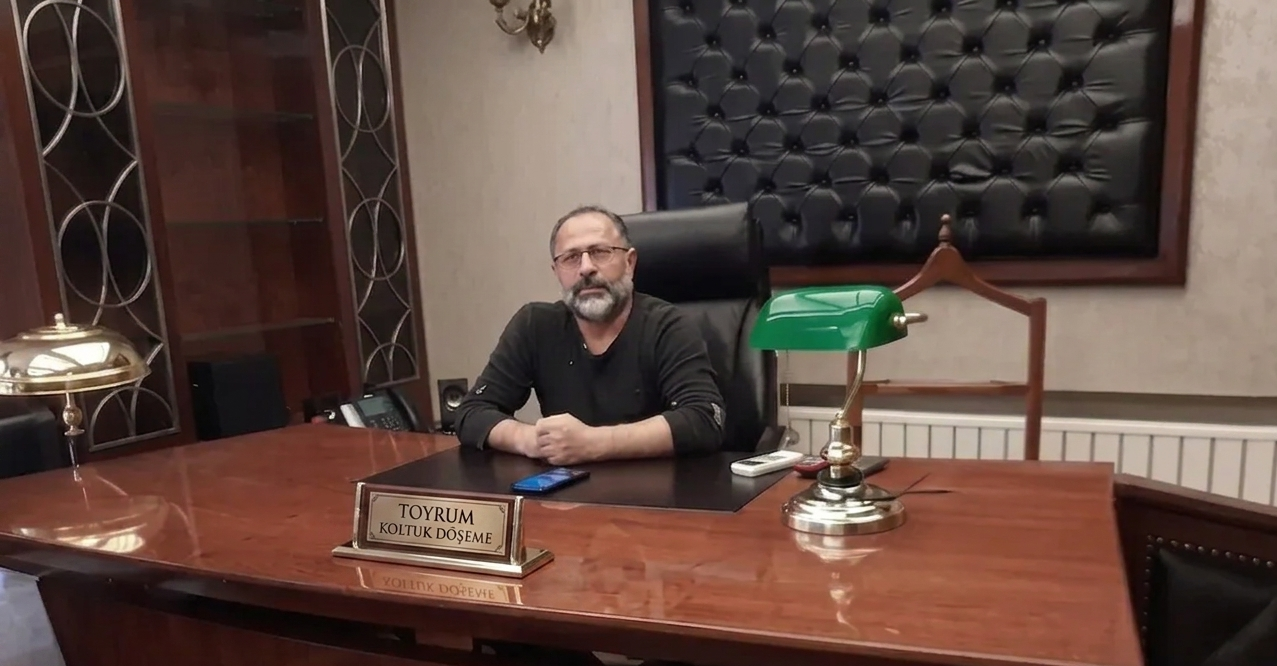
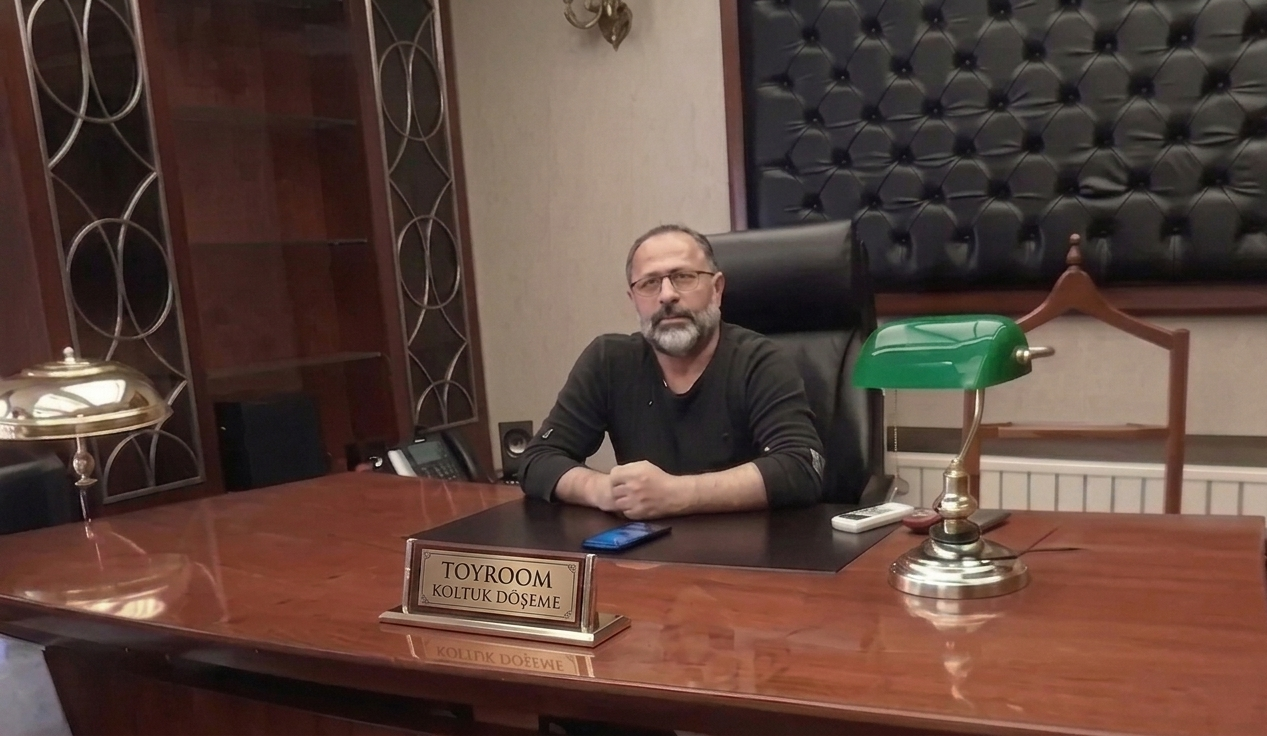
Isletme adini Toyroom olarak degistir

diff --git a/index.html b/index.html
@@ -6,21 +6,21 @@
     <meta name="viewport" content="width=device-width, initial-scale=1.0" />
     <meta
       name="description"
-      content="Toyrum Koltuk Döşeme ve İnşaat Tamamlama - İncek, Ankara. Koltuk döşeme, mobilya tamiri, alçı ve boya işleri."
+      content="Toyroom Koltuk Döşeme ve İnşaat Tamamlama - İncek, Ankara. Koltuk döşeme, mobilya tamiri, alçı ve boya işleri."
     />
     <meta
       name="keywords"
-      content="koltuk döşeme, mobilya tamiri, koltuk kaplama, alçı, boya, inşaat tamamlama, İncek, Ankara, Toyrum"
+      content="koltuk döşeme, mobilya tamiri, koltuk kaplama, alçı, boya, inşaat tamamlama, İncek, Ankara, Toyroom"
     />
     <meta name="robots" content="index, follow" />
-    <meta name="author" content="Toyrum" />
+    <meta name="author" content="Toyroom" />
     <link rel="canonical" href="https://toyrrum.com/" />
 
     <!-- Open Graph -->
     <meta property="og:type" content="website" />
     <meta property="og:locale" content="tr_TR" />
-    <meta property="og:site_name" content="Toyrum" />
-    <meta property="og:title" content="Toyrum Koltuk Döşeme ve İnşaat Tamamlama" />
+    <meta property="og:site_name" content="Toyroom" />
+    <meta property="og:title" content="Toyroom Koltuk Döşeme ve İnşaat Tamamlama" />
     <meta
       property="og:description"
       content="Koltuk döşeme, mobilya tamiri, alçı ve boya işleri. İncek, Ankara."
@@ -30,20 +30,20 @@
 
     <!-- Twitter -->
     <meta name="twitter:card" content="summary_large_image" />
-    <meta name="twitter:title" content="Toyrum Koltuk Döşeme ve İnşaat Tamamlama" />
+    <meta name="twitter:title" content="Toyroom Koltuk Döşeme ve İnşaat Tamamlama" />
     <meta
       name="twitter:description"
       content="Koltuk döşeme, mobilya tamiri, alçı ve boya işleri. İncek, Ankara."
     />
     <meta name="twitter:image" content="https://toyrrum.com/favicon.png" />
 
-    <title>Toyrum Koltuk Döşeme ve İnşaat Tamamlama | İncek, Ankara</title>
+    <title>Toyroom Koltuk Döşeme ve İnşaat Tamamlama | İncek, Ankara</title>
 
     <script type="application/ld+json">
       {
         "@context": "https://schema.org",
         "@type": "LocalBusiness",
-        "name": "Toyrum",
+        "name": "Toyroom",
         "description": "Koltuk Döşeme ve İnşaat Tamamlama",
         "image": "https://toyrrum.com/favicon.png",
         "url": "https://toyrrum.com/",

diff --git a/src/components/Gallery.tsx b/src/components/Gallery.tsx
@@ -49,7 +49,7 @@ export function Gallery() {
             <FramedImage
               key={i}
               src={photo}
-              alt="Toyrum tamamlanan iş örneği"
+              alt="Toyroom tamamlanan iş örneği"
               aspect="square"
               onClick={() => setActive(i)}
             />
@@ -65,7 +65,7 @@ export function Gallery() {
             <FramedImage
               key={i}
               src={photo}
-              alt="Toyrum inşaat tamamlama iş örneği"
+              alt="Toyroom inşaat tamamlama iş örneği"
               aspect="square"
               onClick={() => setActive(photos.length + i)}
             />
@@ -97,7 +97,7 @@ export function Gallery() {
           </button>
           <img
             src={allPhotos[active]}
-            alt="Toyrum iş örneği"
+            alt="Toyroom iş örneği"
             onClick={(e) => e.stopPropagation()}
             className="max-h-[85vh] max-w-[90vw] rounded-lg object-contain"
           />

diff --git a/src/components/About.tsx b/src/components/About.tsx
@@ -35,7 +35,7 @@ export function About() {
 
       <div className="mx-auto max-w-6xl px-4 py-20 sm:px-6">
         <div className="grid grid-cols-1 items-center gap-10 lg:grid-cols-2">
-          <FramedImage src={kurucu} alt="Toyrum kurucusu" />
+          <FramedImage src={kurucu} alt="Toyroom kurucusu" />
 
           <div>
             <p className="text-lg leading-relaxed text-muted-foreground">

diff --git a/src/components/Hero.tsx b/src/components/Hero.tsx
@@ -37,7 +37,7 @@ export function Hero() {
           </Link>
         </div>
 
-        <FramedImage src={dukkan} alt="Toyrum dükkanı" priority />
+        <FramedImage src={dukkan} alt="Toyroom dükkanı" priority />
       </div>
     </section>
   )

diff --git a/src/lib/business.ts b/src/lib/business.ts
@@ -1,5 +1,5 @@
 export const business = {
-  name: "Toyrum",
+  name: "Toyroom",
   tagline: "Koltuk Döşeme ve İnşaat Tamamlama",
   phoneDisplay: "0533 572 59 12",
   phoneHref: "tel:+905335725912",